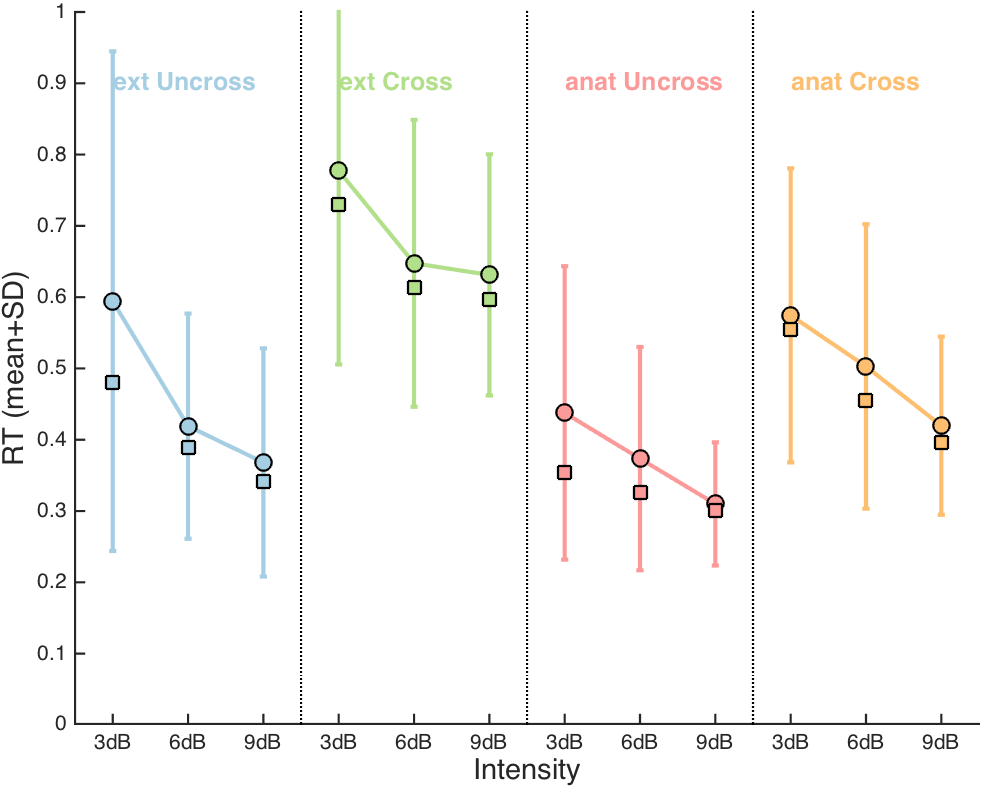
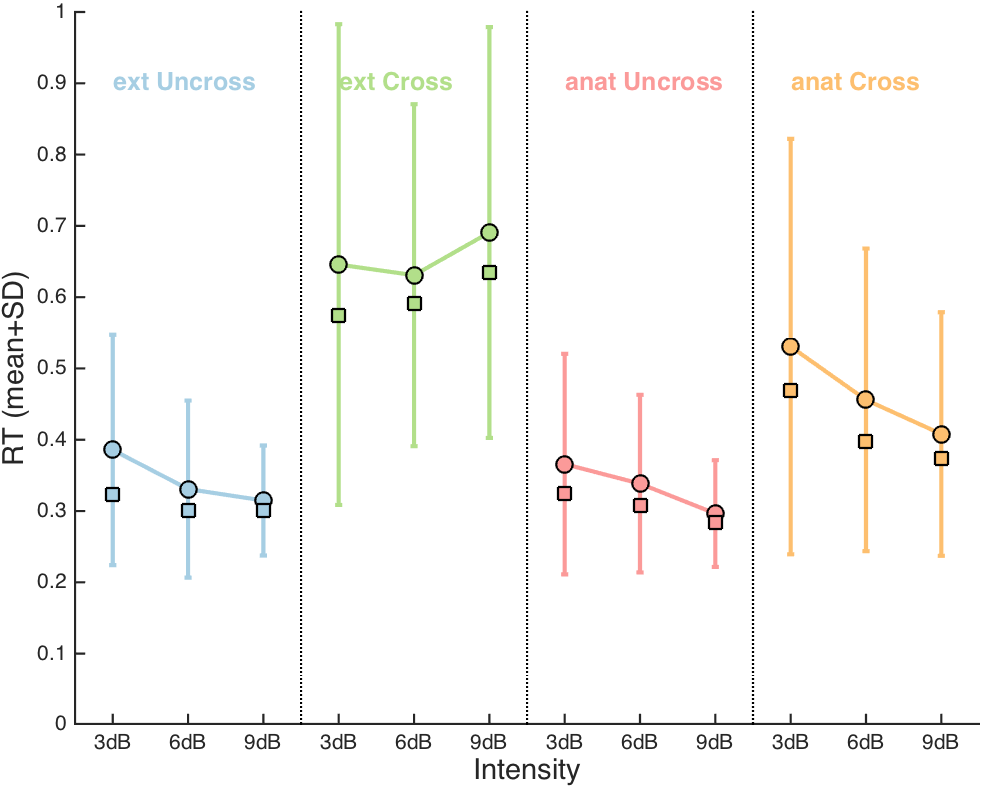
changes in figure scriptsm new figures, description of result structure

diff --git a/code/analysis/E299_simplePlotsHE.m b/code/analysis/E299_simplePlotsHE.m
@@ -1,0 +1,63 @@
+%%
+datapath    = '/Users/jossando/trabajo/E299/';
+subj        = 1;
+task        = 'handEye';
+filename    = sprintf('%sdata/s%d_%s/s%d_%s_results',datapath,subj,task,subj,task);
+
+load(filename)
+edges       = 0:.05:1.5;
+figure
+cmap    = cbrewer('qual','Paired',9);
+cmap(3:4,:) = [];
+lnstl   = repmat({'-',':'},1,4);
+leglab  = {'eyeOpenUnc','eyeOpenC','eyeClosedUnc','eyeClosedC'};
+n=1;
+for b = 1:2
+   for c = 0:1
+        
+            data = result.trial_RT(result.trial_correct==1 ...
+                & result.trial_blockType==b ...
+                & result.trial_crossed==c )
+            N = histc(data,edges);
+            stat(n,:) = [median(data) mean(data) std(data)];
+            h(n) = plot(edges,N./sum(N),'LineStyle',lnstl{n},'Color',cmap(n,:),'LineWidth',2); hold on;
+            n=n+1;
+    end
+end
+legend(h,leglab)
+xlabel('Reaction Time (s)')
+ylabel('Frequency')
+box off
+ 
+figname = sprintf('%sfigures/s%d_%s_hist',datapath,subj,task);
+print(gcf,'-dpng',figname)
+close gcf
+%%
+figure,
+hold on
+
+
+hh(1) = errorbar([1:2]-.1,stat(1:2,2),stat(1:2,3),...
+    'Color',cmap(1,:),'LineWidth',2);
+plot([1:2]-.1,stat(1:2,2),'o',...
+     'MarkerFaceColor',cmap(1,:),'MarkerEdgeColor',[0 0 0],'MarkerSize',8)
+ plot([1:2]-.1,stat(1:2,1),'s',...
+        'MarkerFaceColor',cmap(1,:),'MarkerEdgeColor',[0 0 0],'MarkerSize',8)
+  
+hh(2) = errorbar([1:2]+.1,stat(3:4,2),stat(3:4,3),...
+    'Color',cmap(3,:),'LineWidth',2);
+plot([1:2]+.1,stat(3:4,2),'o',...
+     'MarkerFaceColor',cmap(3,:),'MarkerEdgeColor',[0 0 0],'MarkerSize',8)
+plot([1:2]+.1,stat(3:4,1),'s',...
+        'MarkerFaceColor',cmap(3,:),'MarkerEdgeColor',[0 0 0],'MarkerSize',8)
+   
+   
+legend(hh,{'Eyes Open','Eyes Closed'})
+  
+axis([0.5 2.5 0 .6])
+set(gca,'XTick',1:2,'XTickLabel',{'Uncrossed','Crossed'})
+ylabel('RT (mean+SD)','FontSize',14)
+tightfig
+
+figname = sprintf('%sfigures/s%d_%s_means',datapath,subj,task);
+print(gcf,'-dpng',figname)

diff --git a/code/experiment/helper/E299_initialize_subject.m b/code/experiment/helper/E299_initialize_subject.m
@@ -11,7 +11,7 @@ sTtyp           = input('\nTrial type (singleLH;handEye): ','s');
 
 % sTtyp           = 'singleLH';
 Spath           = sprintf('%sdata%ss%s_%s',Ppath,filesep,sNstr,sTtyp);              % path to subject data folder
-
+% TODO redo folder structure to exp_type_folder/subject_files
 % check wether subject folder exists and what does the experimenter want to do
 if isdir(Spath)                        
     aux_inp1 = input(sprintf(...

diff --git a/code/analysis/E299_simplePlots.m b/code/analysis/E299_simplePlots.m
@@ -1,6 +1,6 @@
 %%
 datapath    = '/Users/jossando/trabajo/E299/';
-subj        = 5;
+subj        = 1;
 task        = 'singleLH';
 filename    = sprintf('%sdata/s%d_%s/s%d_%s_results',datapath,subj,task,subj,task);
 
